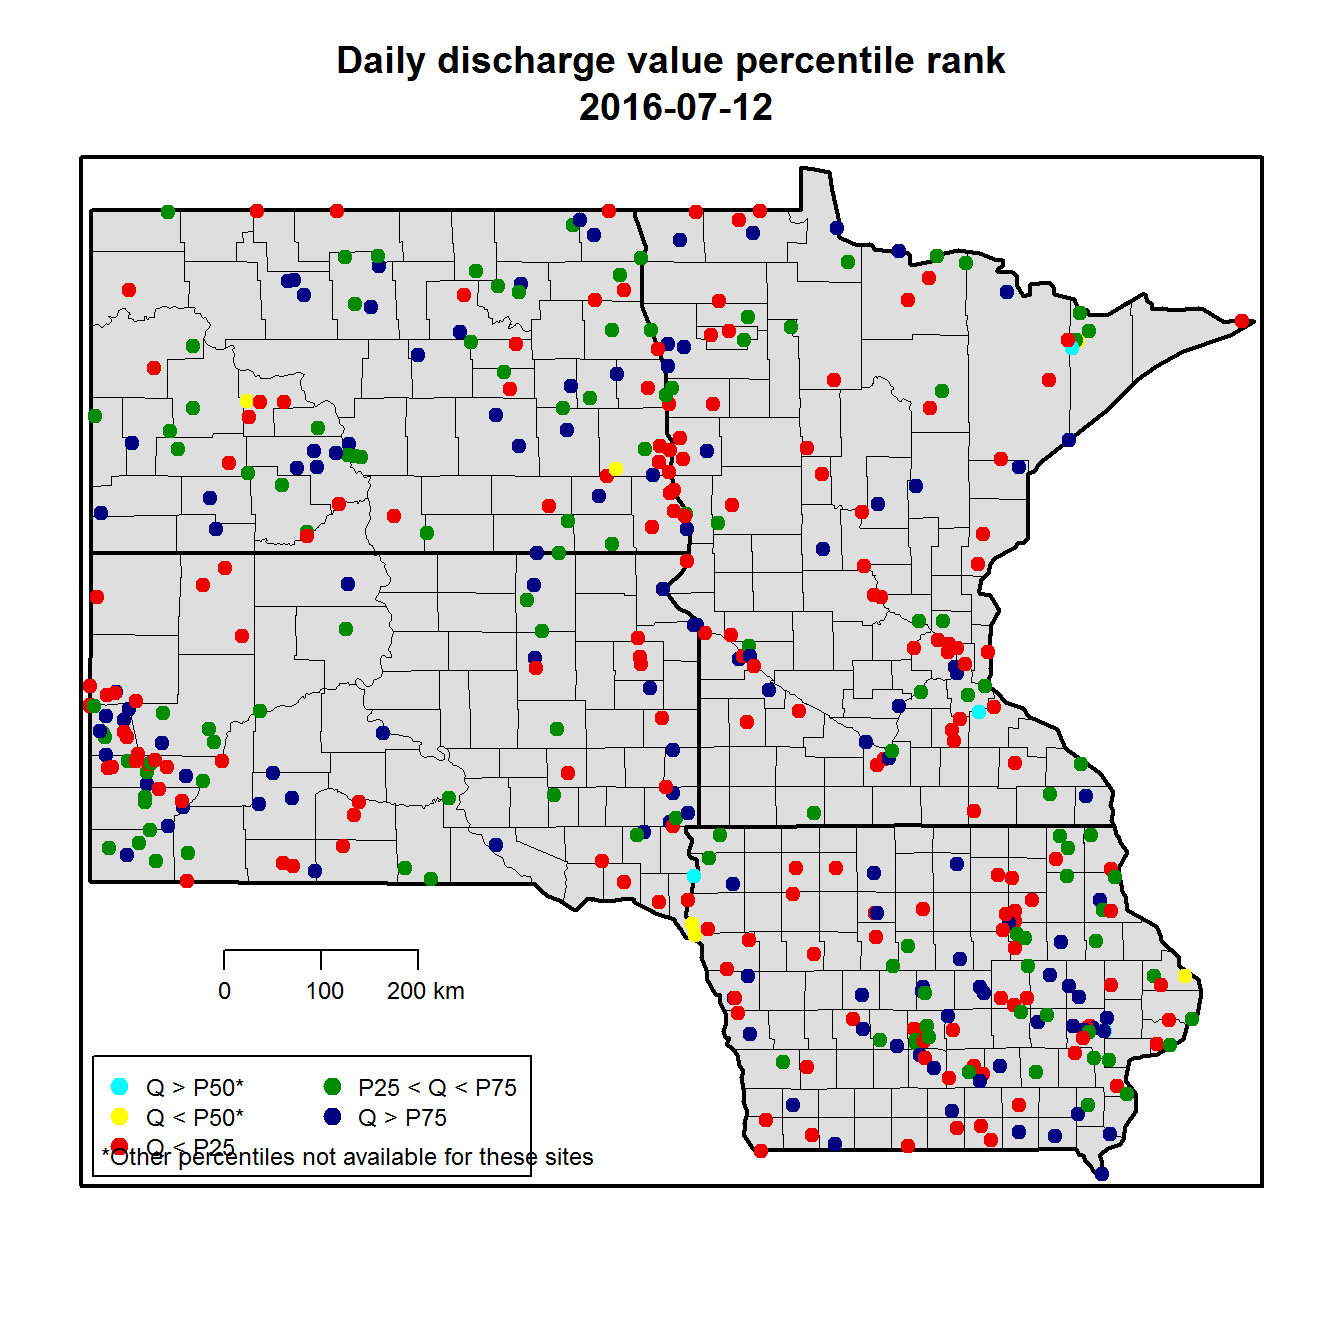
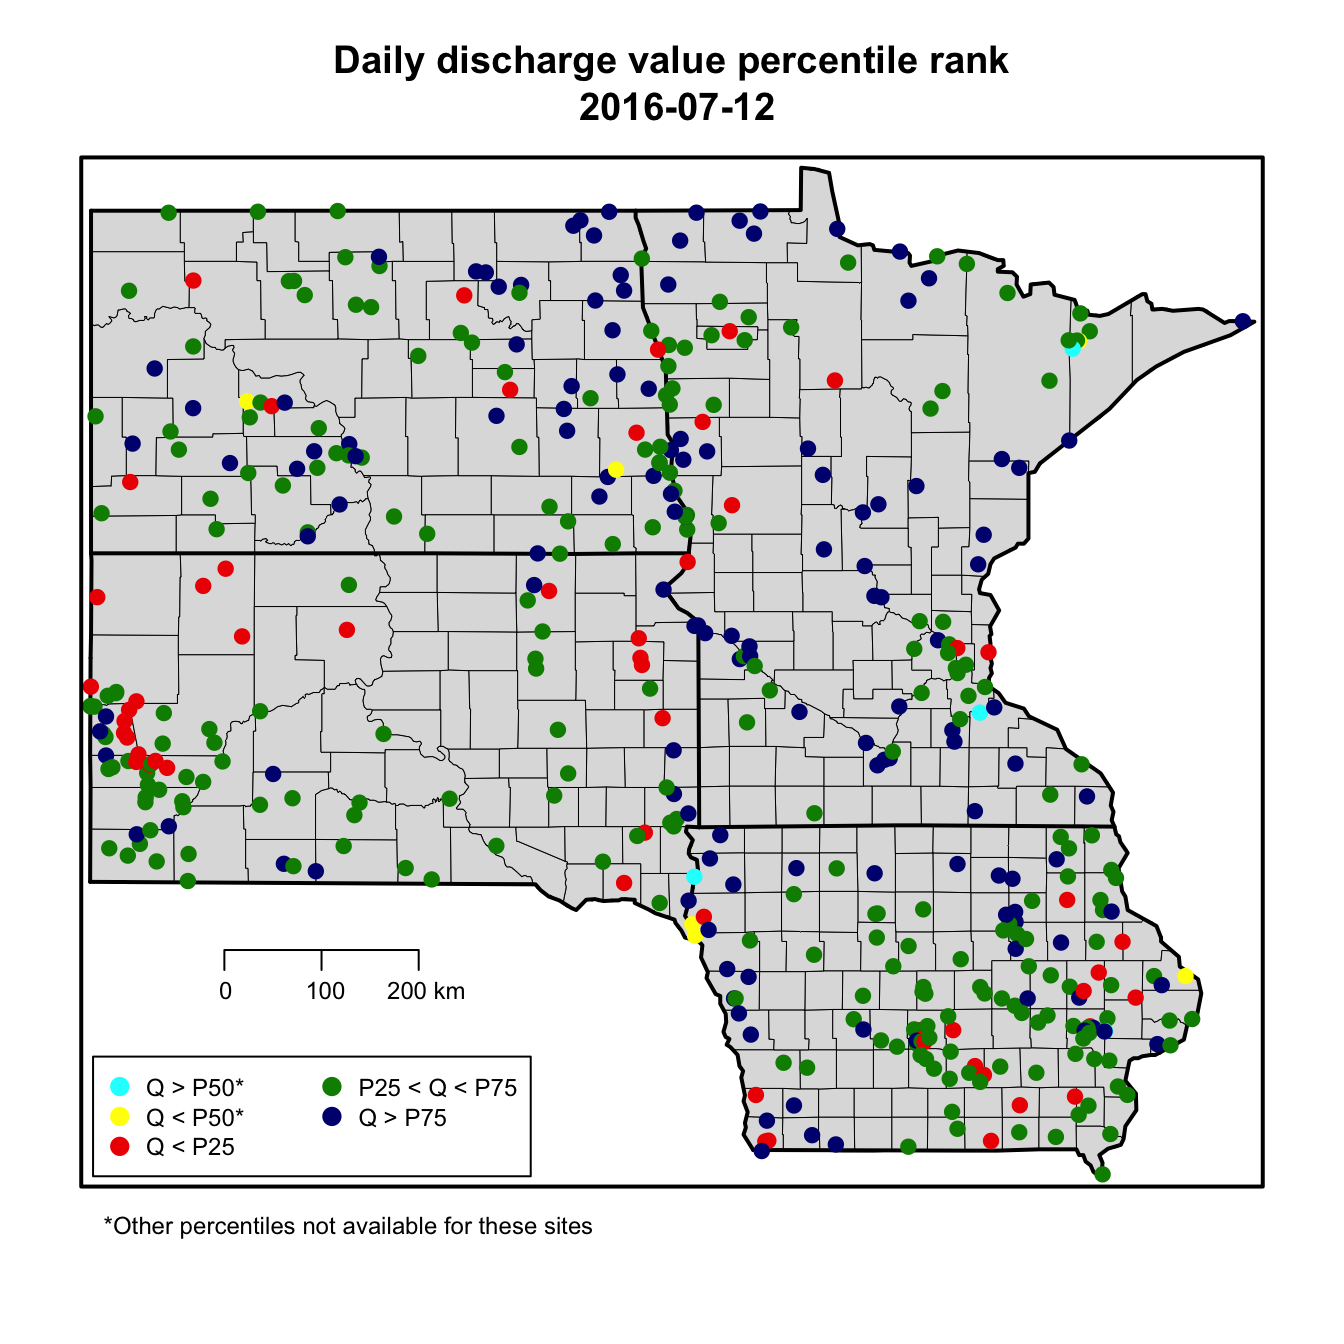
moved asterisk text

diff --git a/content/statsServiceMap.md b/content/statsServiceMap.md
@@ -86,13 +86,13 @@ finalJoin$class <- ifelse(is.na(finalJoin$p25),
 head(finalJoin[,c("dec_lon_va","dec_lat_va","class")])
 ```
 
-    ##   dec_lon_va dec_lat_va class
-    ## 1  -89.61620   48.01211  red2
-    ## 2  -91.79240   46.94688  navy
-    ## 3  -92.04000   47.48111  red2
-    ## 4  -92.63667   46.78167  red2
-    ## 5  -92.41880   46.70328  navy
-    ## 6  -96.01756   46.36940  red2
+    ##   dec_lon_va dec_lat_va  class
+    ## 1  -89.61620   48.01211   navy
+    ## 2  -91.79240   46.94688   navy
+    ## 3  -92.04000   47.48111 green4
+    ## 4  -92.63667   46.78167   navy
+    ## 5  -92.41880   46.70328   navy
+    ## 6  -96.01756   46.36940   red2
 
 Make the plot
 -------------
@@ -120,10 +120,10 @@ map.scale(ratio=FALSE,cex = 0.75,
           grconvertY(.2, "npc"))
 text("*Other percentiles not available for these sites", cex=0.75,
      x=grconvertX(0.2,"npc"), 
-     y=grconvertY(-0.01, "npc"))
+     y=grconvertY(-0.08, "npc"))
 ```
 
-<img src='/static/stats-service-map/plot-1.png'/ title='Map discharge percentiles'/> ***Disclaimer**: The NWIS stats web service that `dataRetrieval`accesses here is in beta, and its output could change in the future.*
+<img src='/static/stats-service-map/plot-1.png'/ title='Map discharge percentiles' alt='TODO' class=''/> ***Disclaimer**: The NWIS stats web service that `dataRetrieval`accesses here is in beta, and its output could change in the future.*
 
 Questions
 =========
